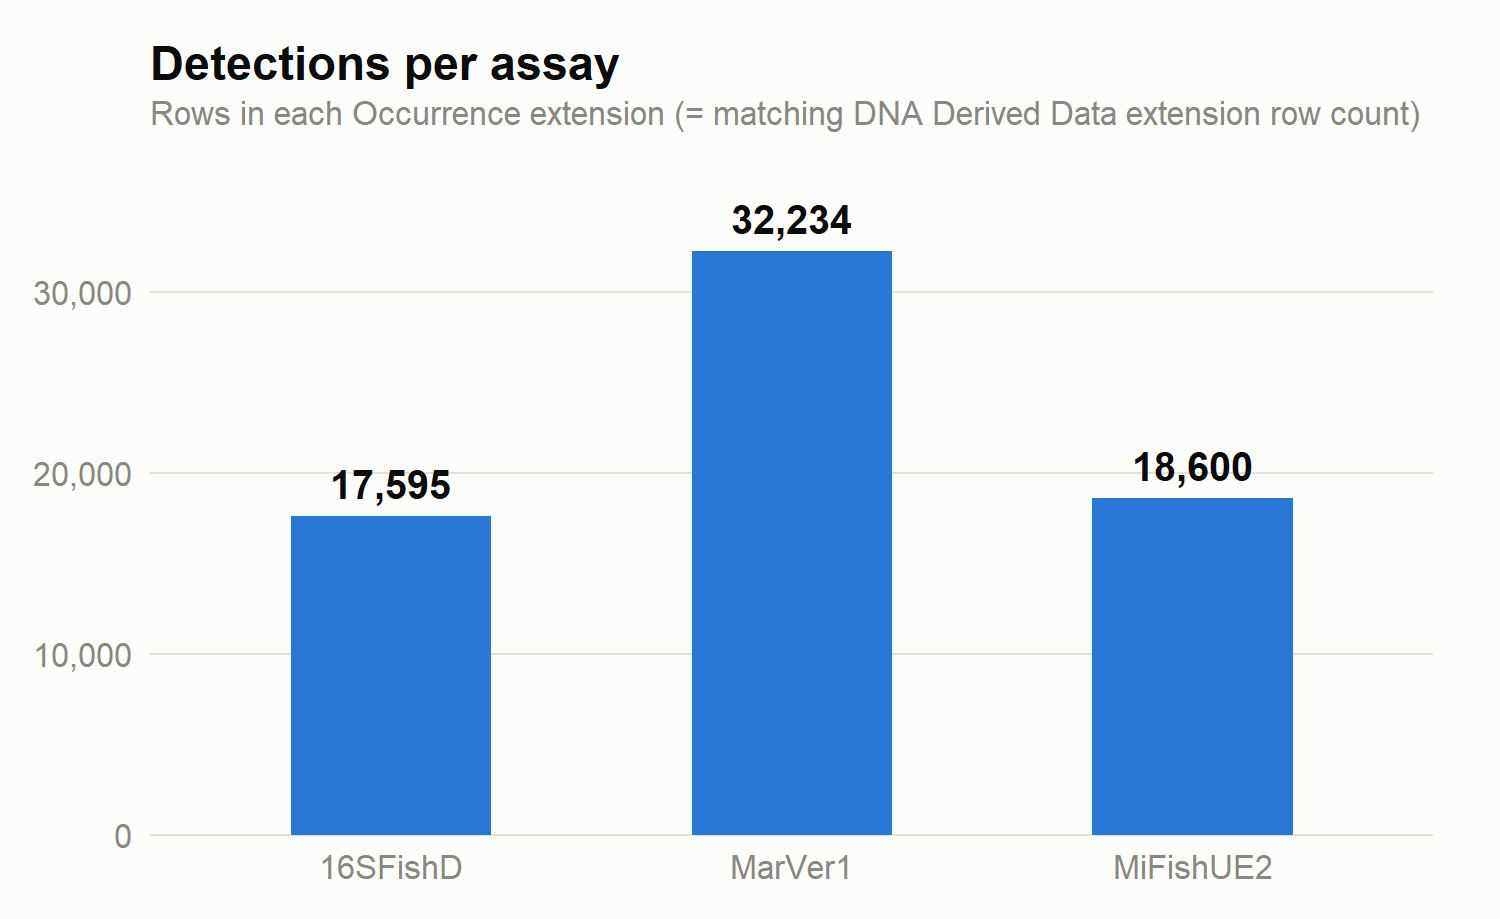
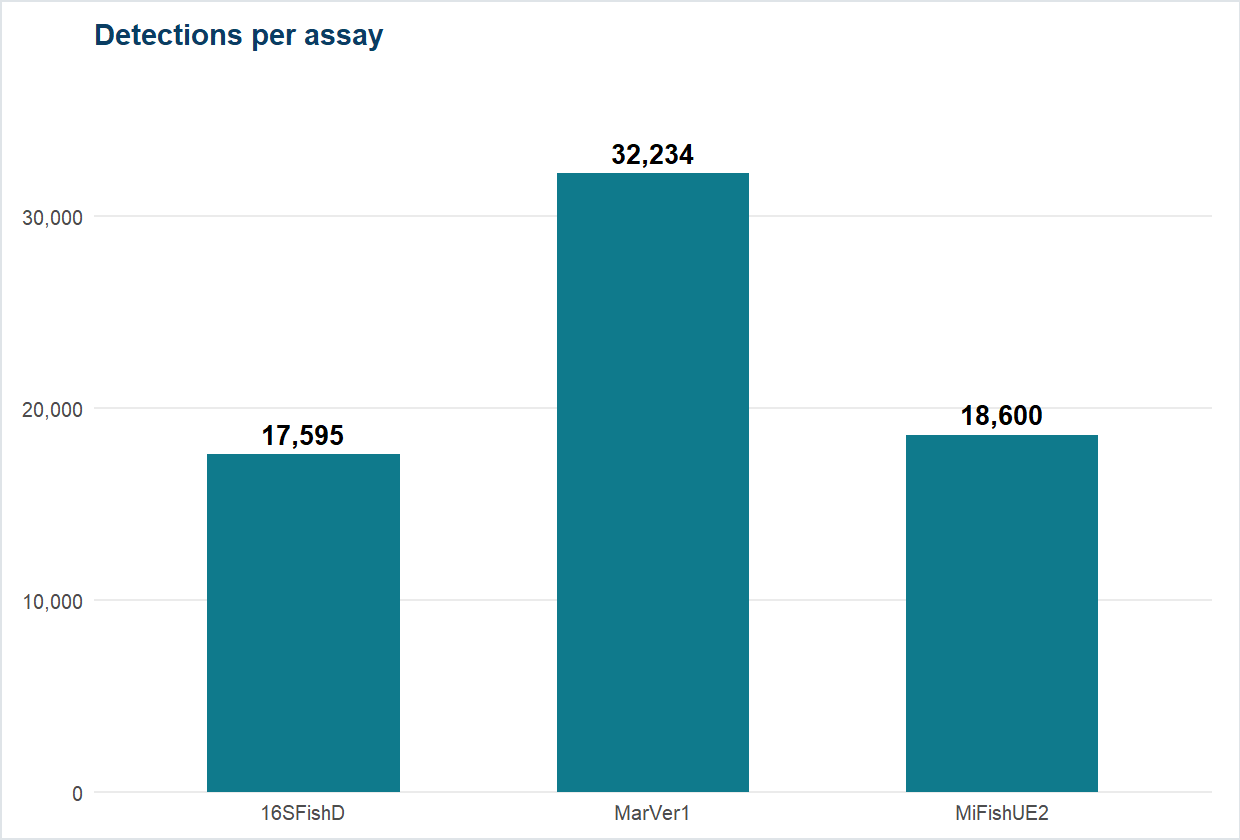
readme updated

diff --git a/README.md b/README.md
@@ -177,13 +177,25 @@ Also worth checking rather than assuming: which `sampleMetadata`/`taxaFinal` col
 
 This isn't a hypothetical pipeline — it's been run end-to-end against the OcOm_2408 project's real FAIRe files (three assays, 628 total samples) and checked with [`obistools`](https://github.com/iobis/obistools) before being considered done.
 
+*Charts below are drawn by the same code the web app uses for its own Step 7 analysis report (`R/build_report.R`) — not a separate look-alike, so the README can't quietly drift out of sync with what the app actually produces. Regenerate them after reprocessing a new dataset with `scripts/make_readme_charts.R`.*
+
 ### Samples
 
-![Samples collected: 490 real samples in the archive, 131 negative controls and 7 positive controls excluded](docs/img/samples_breakdown.png)
+![Samples in the archive: 490 real samples, 138 controls excluded](docs/img/samples_breakdown.png)
+
+490 real samples made it into the archive; 138 control samples (131 negative, 7 positive) were excluded as lab/field QC artifacts, not biodiversity occurrences.
 
 ### Detections per assay
 
 ![Detections per assay: 17,595 for 16SFishD, 32,234 for MarVer1, 18,600 for MiFishUE2](docs/img/detections_per_assay.png)
+
+### Sampling locations
+
+![Sampling locations: 98 distinct positions off the eastern Australian coast](docs/img/sampling_map.png)
+
+### Most-detected taxa
+
+![Ten most-detected taxa by total DNA sequence reads across all three assays](docs/img/top_taxa.png)
 
 ### Taxonomy resolved without guessing
 
@@ -199,6 +211,10 @@ This isn't a hypothetical pipeline — it's been run end-to-end against the OcOm
 | **Total** | **670** | **100% resolved · 0 left ambiguous · 0 unmatched** |
 
 Full audit trail, for review before publishing: `output/worms_match/matched_names.csv`, `ambiguous_resolved.csv`, `name_corrections_applied.csv`.
+
+That table is about matching *confidence* (did a name get a WoRMS ID at all). A related but different question is *how precisely* each detection could be identified in the first place — some ASVs only confidently resolve to genus or family, not species:
+
+![How far each detection was identified, by assay and taxonomic rank](docs/img/taxonomic_resolution.png)
 
 ### QC checks (`05_qc_checks.R`)
 
